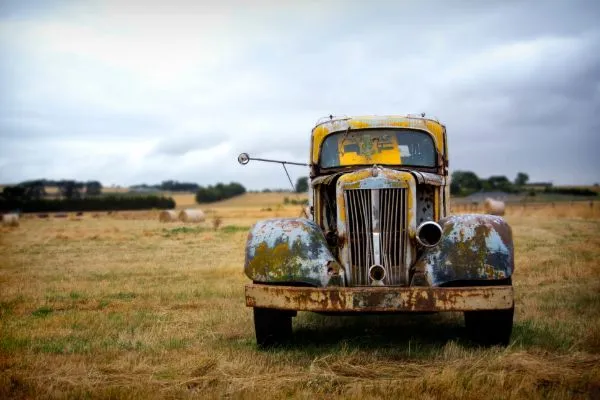
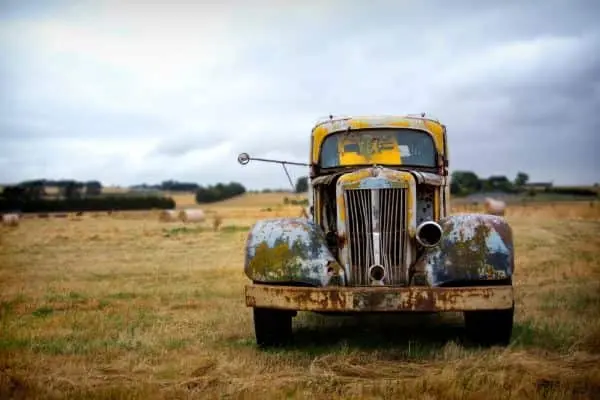
compression des images

diff --git a/index.html b/index.html
@@ -15,7 +15,7 @@
 <body>
 
 <div class="w3-display-container" style="margin-bottom:50px">
-  <img src="img/main_HOME.jpg" style="width:100%; height:100%">
+  <img src="img/main_HOME.jpg" style="width:50%; height:100%">
   <div class="w3-display-bottomleft w3-container w3-amber w3-hover-orange w3-hide-small"
    style="bottom:10%;opacity:0.7;width:70%">
   <h2><b>Travel Agency (Demo Website)</b></h2>
@@ -31,8 +31,8 @@
   </div>
 </div>
 
-<div class="w3-row w3-container">
-  <div class="w3-half w3-border-amber">
+<div class="w3-half w3-container">
+  <div class="w3-topbar w3-border-amber">
     <img src="img/sealions.webp" style="width:100%; height:100%">
     <h2>Super Offers</h2>
     <p>Up to 50% offers. Always 25% student offers.</p>
@@ -49,8 +49,8 @@
   </div>
 </div>
 
-<div class="w3-row w3-container">
-  <div class="w3-half w3-border-orange">
+<div class="w3-half w3-container">
+  <div class="w3-topbar w3-border-orange">
     <img src="img/nowornever.webp" style="width:100%; height:100%">
     <h2>Realize Your Dreams</h2>
     <p>Don't wait until it is to late.</p>
